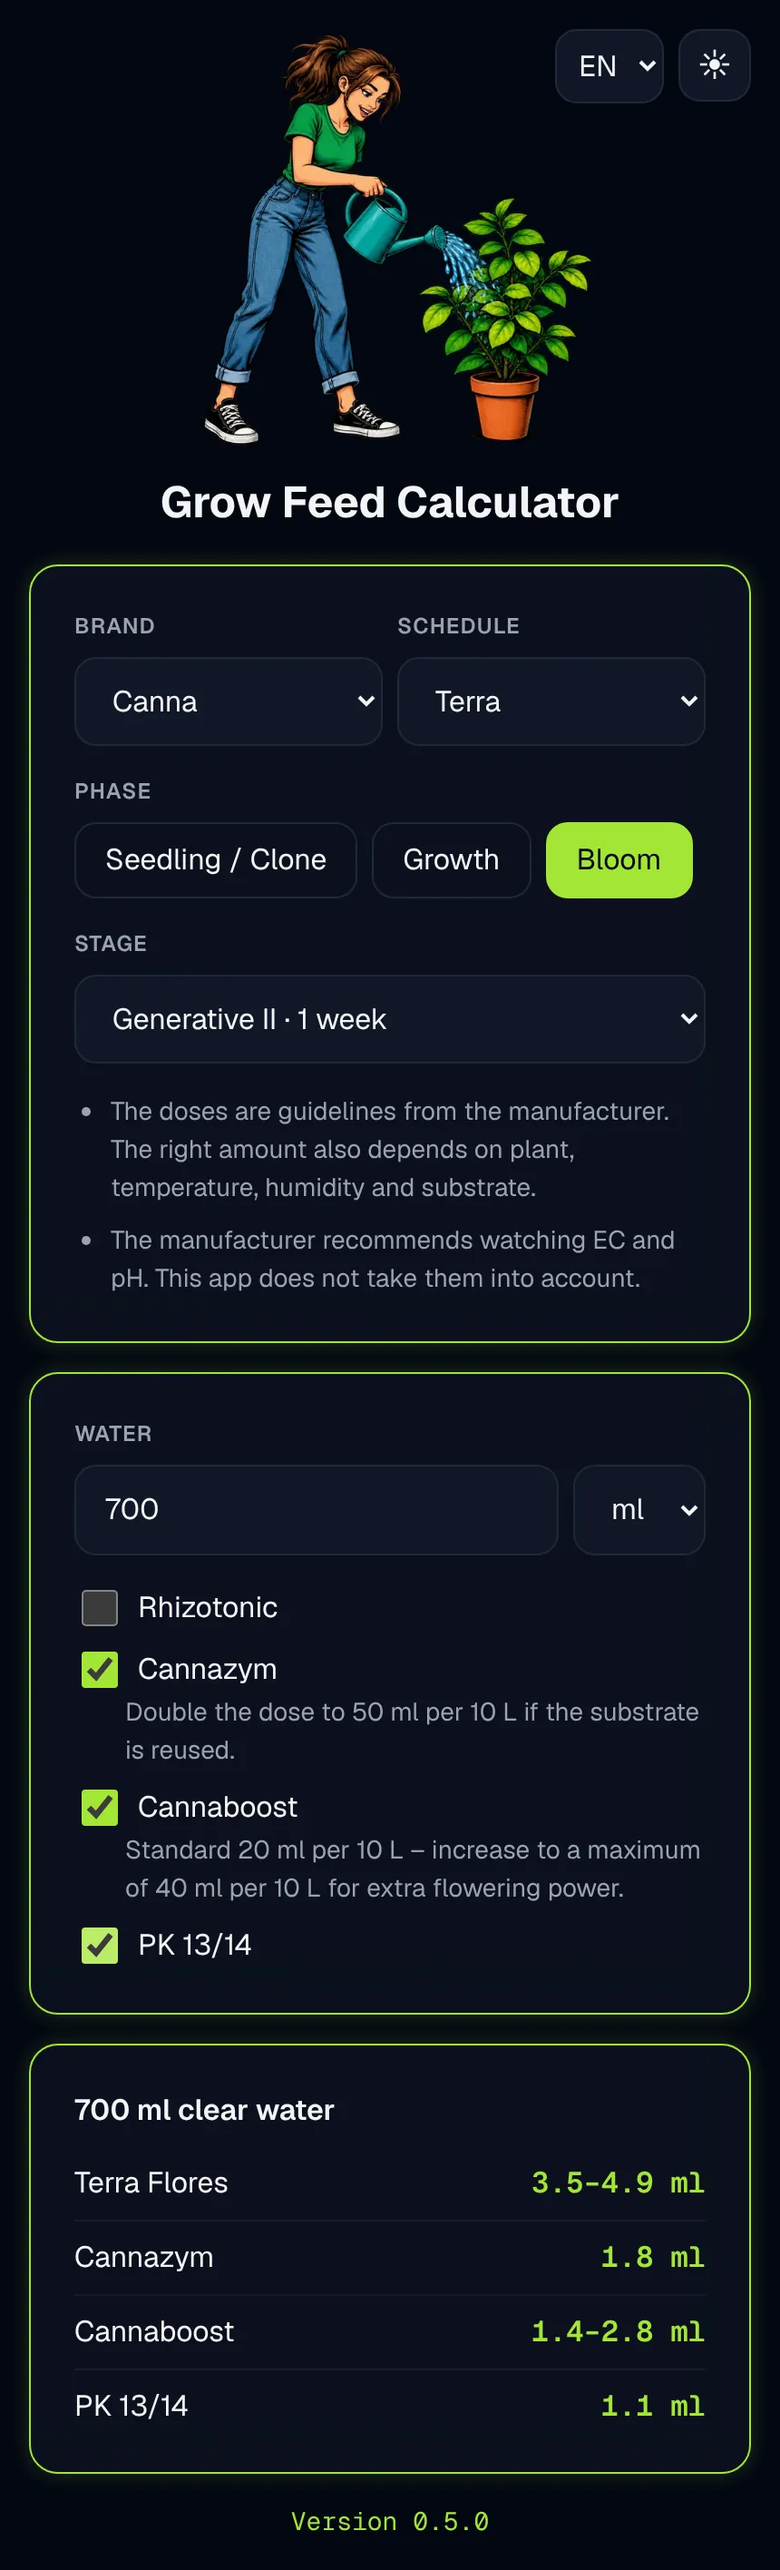
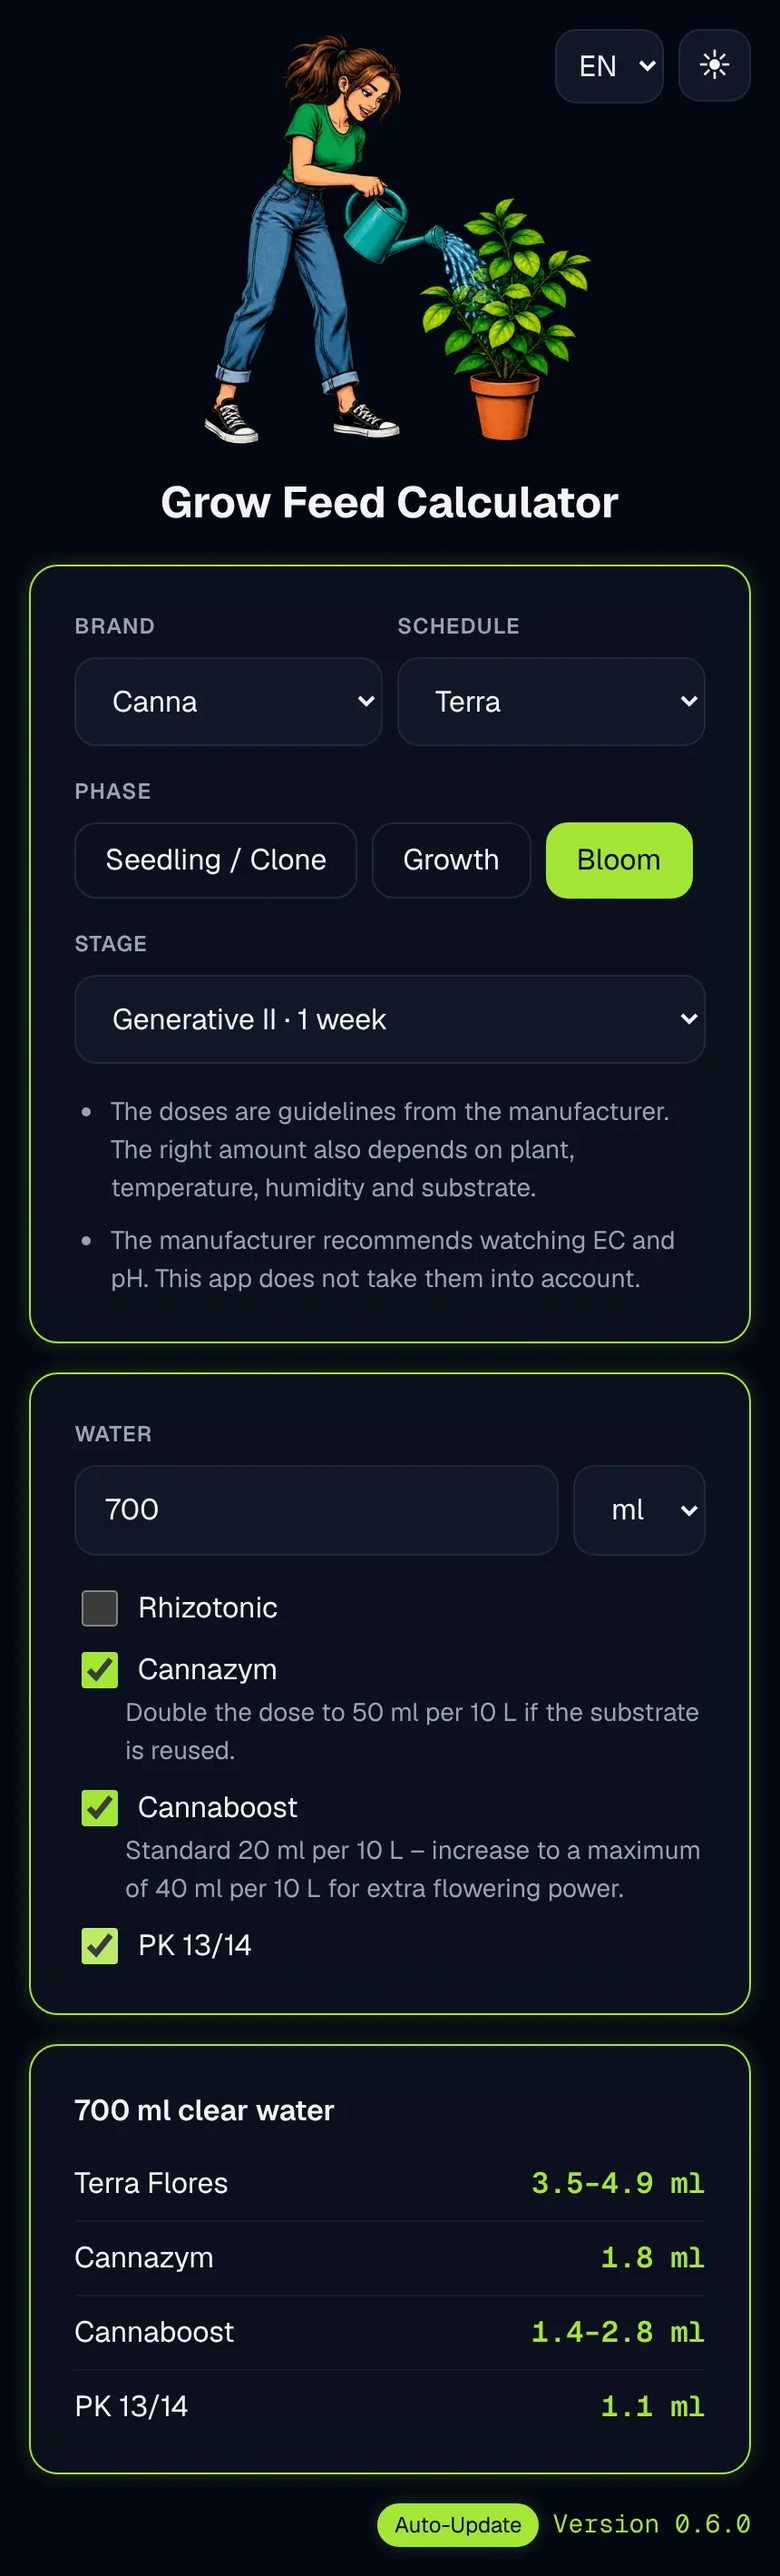
docs: update README for 0.6.0
- Describe the update notice and the Auto-Update switch
- Split badges into colored tiles per brand and language
- Add a note under the feeding chart table to request a fertilizer
- Add 0.6.0 changelog and update.js to the project structure
- Regenerate screenshots with the new footer

diff --git a/docs/README.de.md b/docs/README.de.md
@@ -9,11 +9,13 @@
 **Ein kleiner, offener Rechner für Düngermengen – direkt auf dem Handy.**<br>
 Hersteller, Schema und Woche wählen, die Wassermenge eingeben und für jedes Produkt die genaue Menge bekommen.
 
-![Version](https://img.shields.io/badge/Version-0.5.0-a3e635)
+![Version](https://img.shields.io/badge/Version-0.6.0-a3e635)
 ![PWA](https://img.shields.io/badge/PWA-installierbar%20%C2%B7%20offline-059669)
-![Düngeschemas](https://img.shields.io/badge/D%C3%BCngeschemas-Hesi%20%C2%B7%20BioBizz%20%C2%B7%20Canna-059669)
-![Sprachen](https://img.shields.io/badge/Sprachen-EN%20%C2%B7%20DE-8a2be2)
 ![Lizenz](https://img.shields.io/badge/Lizenz-GPL--3.0-blue)
+
+![Düngeschemas](https://img.shields.io/badge/D%C3%BCngeschemas-Hesi-059669)![BioBizz](https://img.shields.io/badge/BioBizz-d97706)![Canna](https://img.shields.io/badge/Canna-2563eb)
+&nbsp;
+![Sprachen](https://img.shields.io/badge/Sprachen-EN-6366f1)![DE](https://img.shields.io/badge/DE-8a2be2)
 
 ### 👉 [App öffnen](https://gerry-git-ops.github.io/grow-feed-calculator/)
 
@@ -58,6 +60,7 @@ Die App **rechnet nur**. Sie verfolgt oder überwacht deine Pflanzen nicht – d
 - 📝 Anwendungshinweise je Produkt und je Schema, direkt aus dem Düngeschema des Herstellers
 - 🌍 **Englisch und Deutsch**, automatisch passend zum Gerät, jederzeit umschaltbar
 - 🌗 **Hell- und Dunkelmodus**, folgt dem Gerät, bis du selbst umschaltest
+- 🔔 **Update-Hinweis**, wenn eine neue Version da ist – oder automatische Updates, du entscheidest
 - 📲 **Installierbar** auf dem Home-Bildschirm und läuft **offline**
 - 🏷 Version und Änderungsverlauf direkt in der App
 
@@ -83,20 +86,29 @@ Die App **rechnet nur**. Sie verfolgt oder überwacht deine Pflanzen nicht – d
 
 ## 🔄 Updates und Offline-Betrieb
 
-- **Online:** Bei jedem Öffnen prüft die App kurz, ob es eine neuere Version gibt.
-  Geladen werden nur geänderte Dateien – hat sich nichts geändert, wird nichts geladen.
-- **Offline:** Die App nutzt die auf dem Gerät gespeicherte Kopie und funktioniert wie gewohnt.
+- **Die App läuft immer aus der auf dem Gerät gespeicherten Kopie** – online wie offline.
+- **Online:** Bei jedem Öffnen lädt die App nur die kleine Versionsliste (`changelog.json`) und prüft,
+  ob es eine neuere Version gibt. Bleibt die App offen, prüft sie alle 48 Stunden erneut.
+- **Auto-Update an** (Standard): Eine neue Version wird geladen und die App startet gleich neu.
+- **Auto-Update aus:** Die Version wird gelb, und ein Hinweis zeigt, was neu ist. Du wählst
+  *Jetzt aktualisieren*, *Später* oder *Für diese Version nicht mehr anzeigen*. Die App-Dateien werden erst beim Aktualisieren geladen.
 - **Was auf dem Gerät gespeichert wird:** die App-Dateien (etwa 0,8 MB), deine Einstellungen für
-  Sprache und Hell/Dunkel und deine letzte Auswahl von Hersteller, Schema, Phase, Woche und Wasser-Einheit.
+  Sprache, Hell/Dunkel und Updates und deine letzte Auswahl von Hersteller, Schema, Phase, Woche und Wasser-Einheit.
   Deine Wassermenge wird **nicht** gespeichert, und nichts wird an einen Server geschickt.
 
-Unten in der App steht die installierte Version – antippen zeigt, was sich geändert hat.
-
-> [!NOTE]
-> Geplant: ein Schalter, um automatische Updates auszuschalten. Dann erscheint ein Hinweis, wenn eine
-> neue Version da ist, und du entscheidest selbst, wann du aktualisierst.
+Unten rechts in der App steht die installierte Version – grün, wenn sie aktuell ist, gelb, wenn es
+eine neuere gibt. Antippen zeigt, was sich geändert hat. Direkt daneben sitzt der Schalter **Auto-Update**.
 
 ## 🏷 Änderungsverlauf
+
+<details>
+<summary><b>0.6.0</b> · 07.11.2026</summary>
+
+- Hinweis, wenn eine neue Version verfügbar ist
+- Auto-Update-Schalter neben der Version
+- Prüft alle 48 Stunden erneut, solange die App offen bleibt
+
+</details>
 
 <details>
 <summary><b>0.5.0</b> · 07.11.2026</summary>
@@ -153,6 +165,8 @@ Derselbe Verlauf steht in der App. Er liegt in [`changelog.json`](../changelog.j
 | BioBizz | All-Mix | Anzucht, Wuchs, 8 Wochen Blüte, Woche 9 nur Wasser |
 | BioBizz | Light-Mix / Coco-Mix | Anzucht, Wuchs, 8 Wochen Blüte, Woche 9 nur Wasser |
 | Canna | Terra | Start, 2 Wuchs-Abschnitte, 4 Blüte-Abschnitte – mit Mengen-Spannen |
+
+Dein Dünger fehlt? Sag mir Bescheid in einem [Issue](https://github.com/gerry-git-ops/grow-feed-calculator/issues).
 
 ## ⚙ So funktioniert es
 
@@ -257,7 +271,8 @@ grow-feed-calculator/
 │   ├── calculator.js    # Berechnung der Mengen
 │   ├── changelog.js     # Version und Verlauf
 │   ├── i18n.js          # Sprache, Mehrzahl, Zahlen- und Datumsformat
-│   └── theme.js         # Hell / Dunkel
+│   ├── theme.js         # Hell / Dunkel
+│   └── update.js        # Versionsprüfung und Updates
 ├── changelog.json       # Versionsverlauf
 ├── index.html           # Rechner-Seite
 ├── manifest.webmanifest # App für den Home-Bildschirm

diff --git a/README.md b/README.md
@@ -9,11 +9,13 @@
 **A small, open calculator for fertilizer amounts – right on your phone.**<br>
 Pick a manufacturer, a schedule and a week, enter how much water you mix, and get the exact amount of every product.
 
-![Version](https://img.shields.io/badge/Version-0.5.0-a3e635)
+![Version](https://img.shields.io/badge/Version-0.6.0-a3e635)
 ![PWA](https://img.shields.io/badge/PWA-installable%20%C2%B7%20offline-059669)
-![Feeding charts](https://img.shields.io/badge/Feeding%20charts-Hesi%20%C2%B7%20BioBizz%20%C2%B7%20Canna-059669)
-![Languages](https://img.shields.io/badge/Languages-EN%20%C2%B7%20DE-8a2be2)
 ![License](https://img.shields.io/badge/License-GPL--3.0-blue)
+
+![Feeding charts](https://img.shields.io/badge/Feeding%20charts-Hesi-059669)![BioBizz](https://img.shields.io/badge/BioBizz-d97706)![Canna](https://img.shields.io/badge/Canna-2563eb)
+&nbsp;
+![Languages](https://img.shields.io/badge/Languages-EN-6366f1)![DE](https://img.shields.io/badge/DE-8a2be2)
 
 ### 👉 [Open the app](https://gerry-git-ops.github.io/grow-feed-calculator/)
 
@@ -58,6 +60,7 @@ The app only **calculates**. It does not track or monitor your plants – that i
 - 📝 Usage notes per product and per schedule, straight from the manufacturer's chart
 - 🌍 **English and German**, chosen automatically from your device, switchable at any time
 - 🌗 **Light and dark mode**, follows your device until you switch it yourself
+- 🔔 **Update notice** when a new version is available – or automatic updates, your choice
 - 📲 **Installable** on your home screen and works **offline**
 - 🏷 Version and change history right in the app
 
@@ -83,20 +86,30 @@ The app only **calculates**. It does not track or monitor your plants – that i
 
 ## 🔄 Updates and offline use
 
-- **Online:** every time you open the app, it briefly checks whether there is a newer version.
-  Only changed files are downloaded – if nothing changed, nothing is loaded.
-- **Offline:** the app uses the copy stored on your device and works as usual.
+- **The app always runs from the copy stored on your device** – online and offline.
+- **Online:** every time you open the app, it only loads the small version list (`changelog.json`)
+  and checks whether there is a newer version. If the app stays open, it checks again every 48 hours.
+- **Auto-Update on** (default): a new version is loaded and the app restarts right away.
+- **Auto-Update off:** the version turns yellow and a notice shows what is new. You choose
+  *Update now*, *Later* or *Don't show again for this version*. The app files are only loaded when you update.
 - **What is stored on your device:** the app files (about 0.8 MB), your settings for language and
-  light/dark mode, and your last choice of manufacturer, schedule, phase, week and water unit.
+  light/dark mode, your update settings, and your last choice of manufacturer, schedule, phase, week and water unit.
   Your water amount is **not** saved, and nothing is sent to a server.
 
-The installed version is shown at the bottom of the app – tap it to see what changed.
-
-> [!NOTE]
-> Planned: a switch to turn automatic updates off. You will then see a notice when a new version
-> is available and can decide yourself when to update.
+The installed version is shown at the bottom right of the app – green when it is up to date,
+yellow when a newer version is available. Tap it to see what changed. The **Auto-Update** switch
+sits right next to it.
 
 ## 🏷 Changelog
+
+<details>
+<summary><b>0.6.0</b> · 2026-11-07</summary>
+
+- Notice when a new version is available
+- Auto-Update switch next to the version
+- Checks again every 48 hours while the app stays open
+
+</details>
 
 <details>
 <summary><b>0.5.0</b> · 2026-11-07</summary>
@@ -153,6 +166,8 @@ The same history is shown in the app. It is kept in [`changelog.json`](changelog
 | BioBizz | All-Mix | Propagation, growth, 8 weeks bloom, week 9 water only |
 | BioBizz | Light-Mix / Coco-Mix | Propagation, growth, 8 weeks bloom, week 9 water only |
 | Canna | Terra | Start, 2 growth stages, 4 bloom stages – with dose ranges |
+
+Missing your fertilizer? Let me know in an [issue](https://github.com/gerry-git-ops/grow-feed-calculator/issues).
 
 ## ⚙ How it works
 
@@ -257,7 +272,8 @@ grow-feed-calculator/
 │   ├── calculator.js    # dose calculation
 │   ├── changelog.js     # version and history
 │   ├── i18n.js          # language, plurals, number and date format
-│   └── theme.js         # light / dark
+│   ├── theme.js         # light / dark
+│   └── update.js        # version check and updates
 ├── changelog.json       # version history
 ├── index.html           # calculator page
 ├── manifest.webmanifest # home screen app
